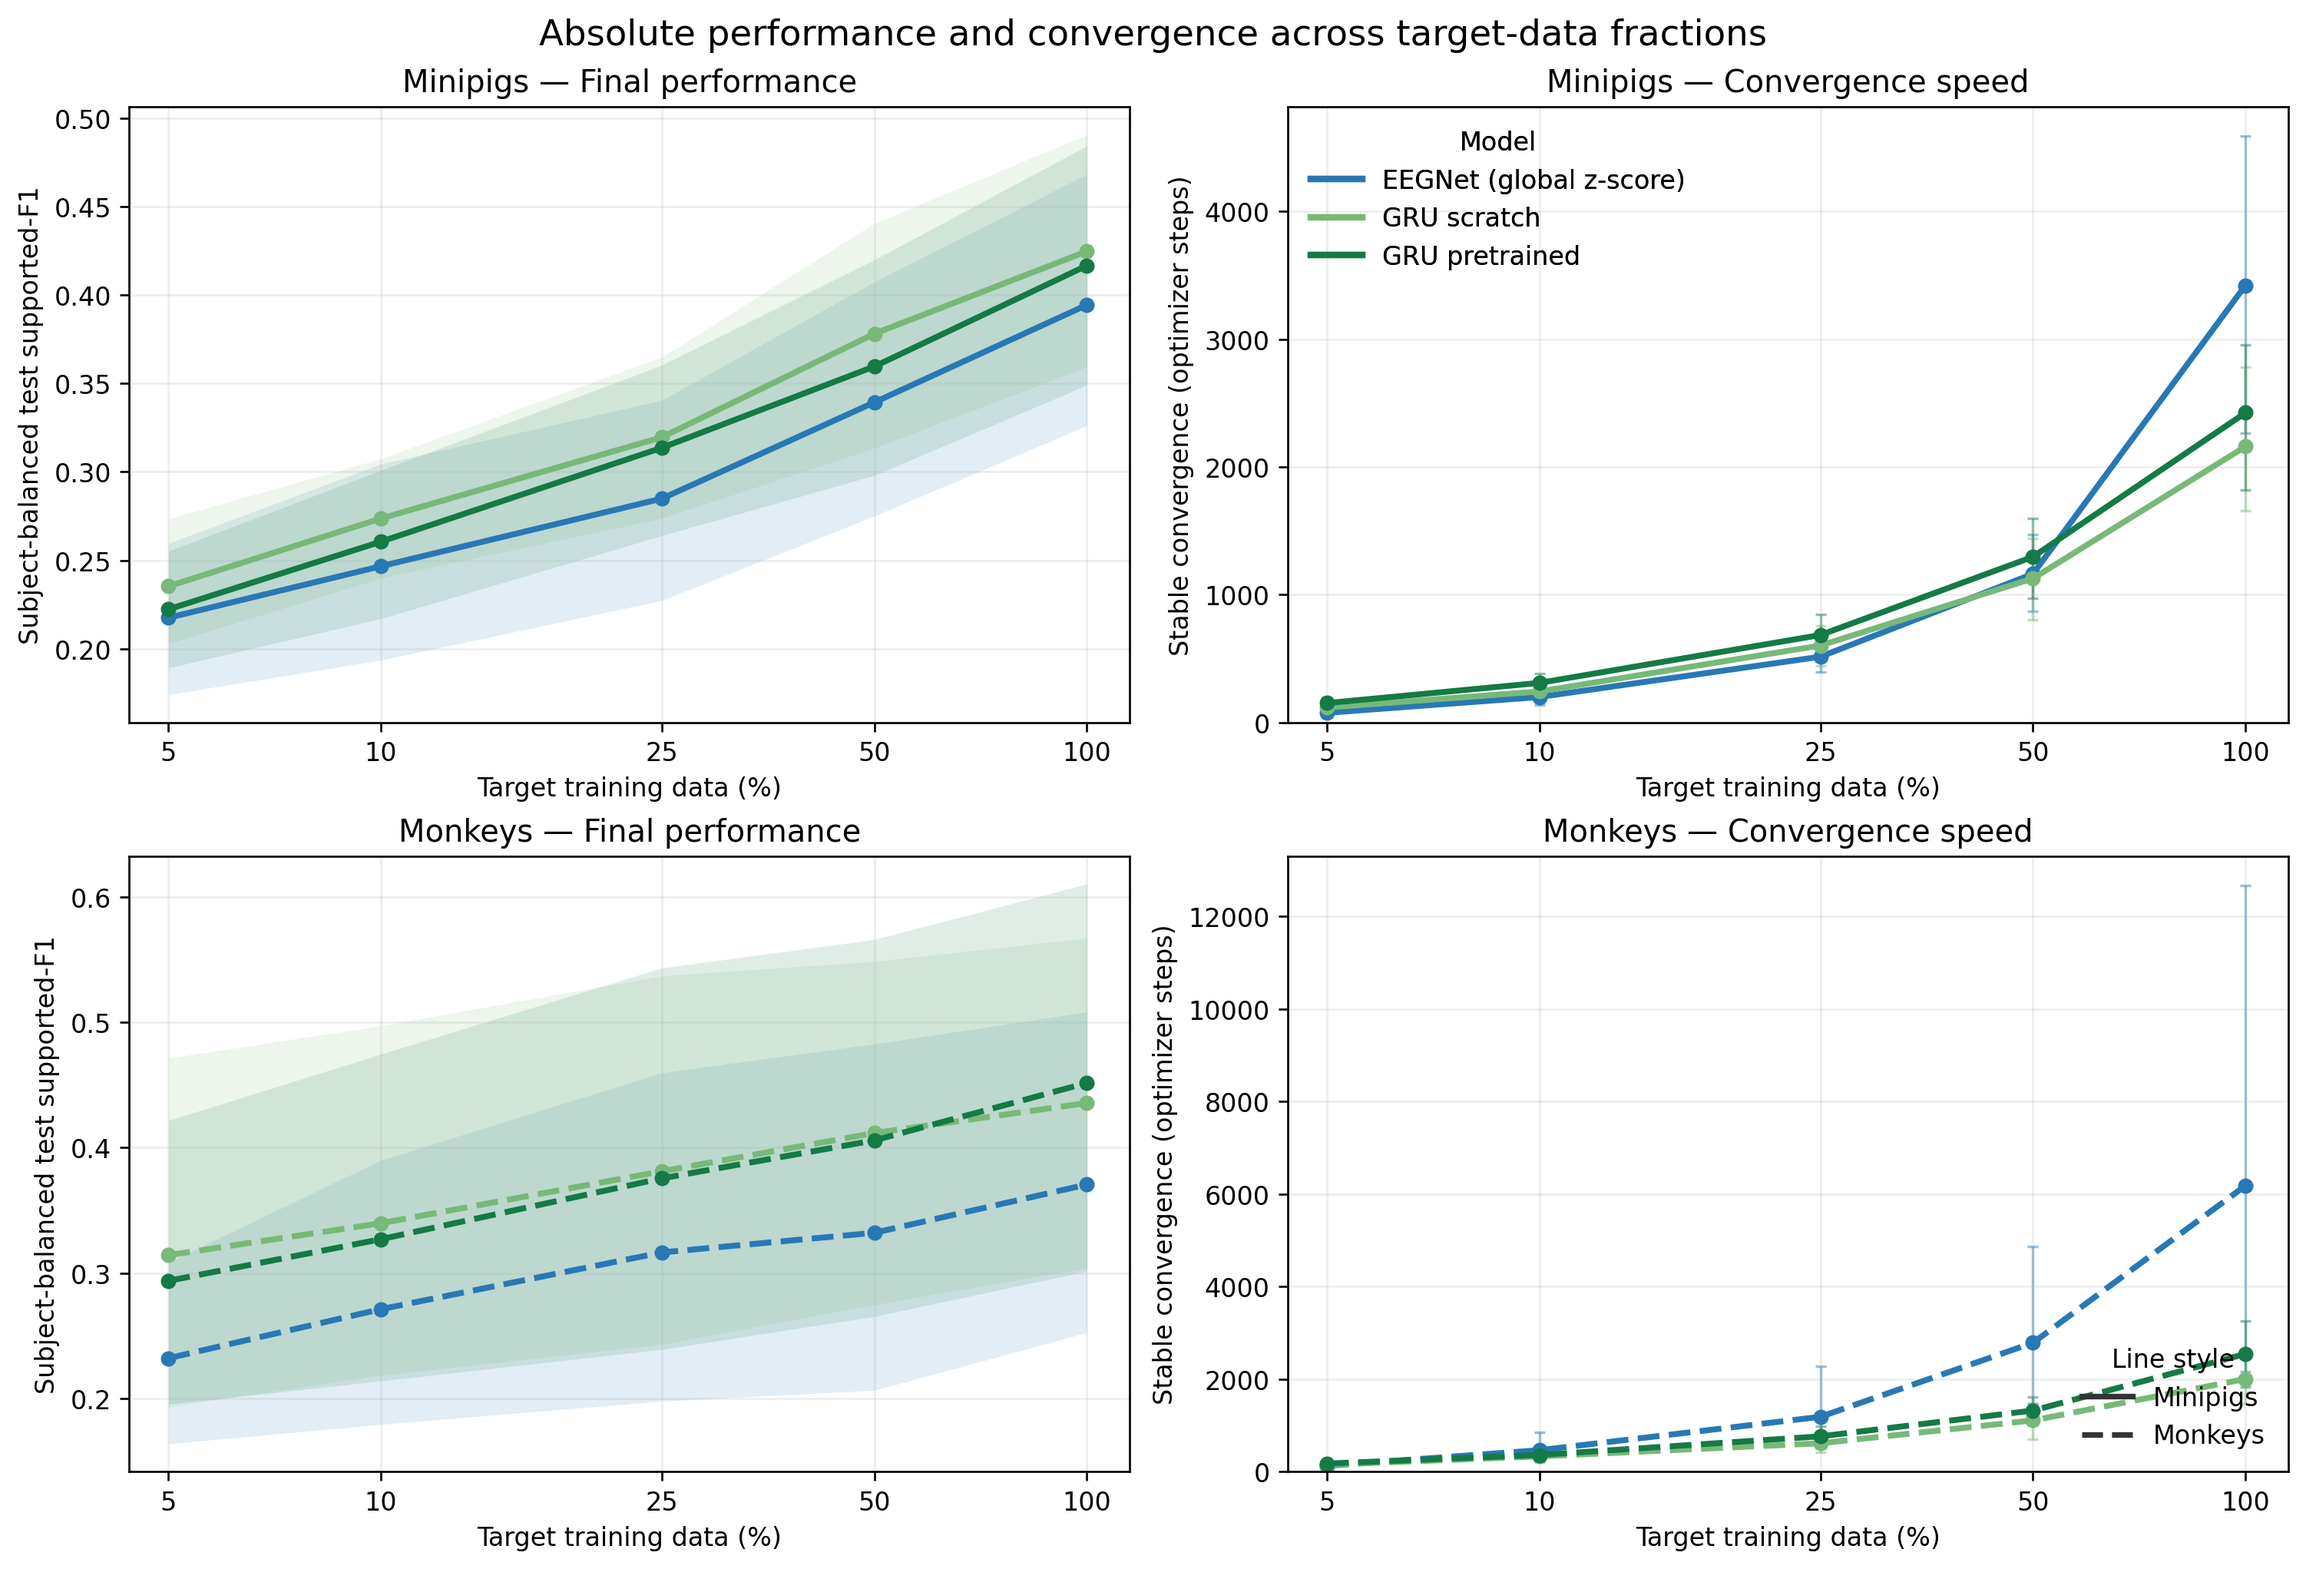
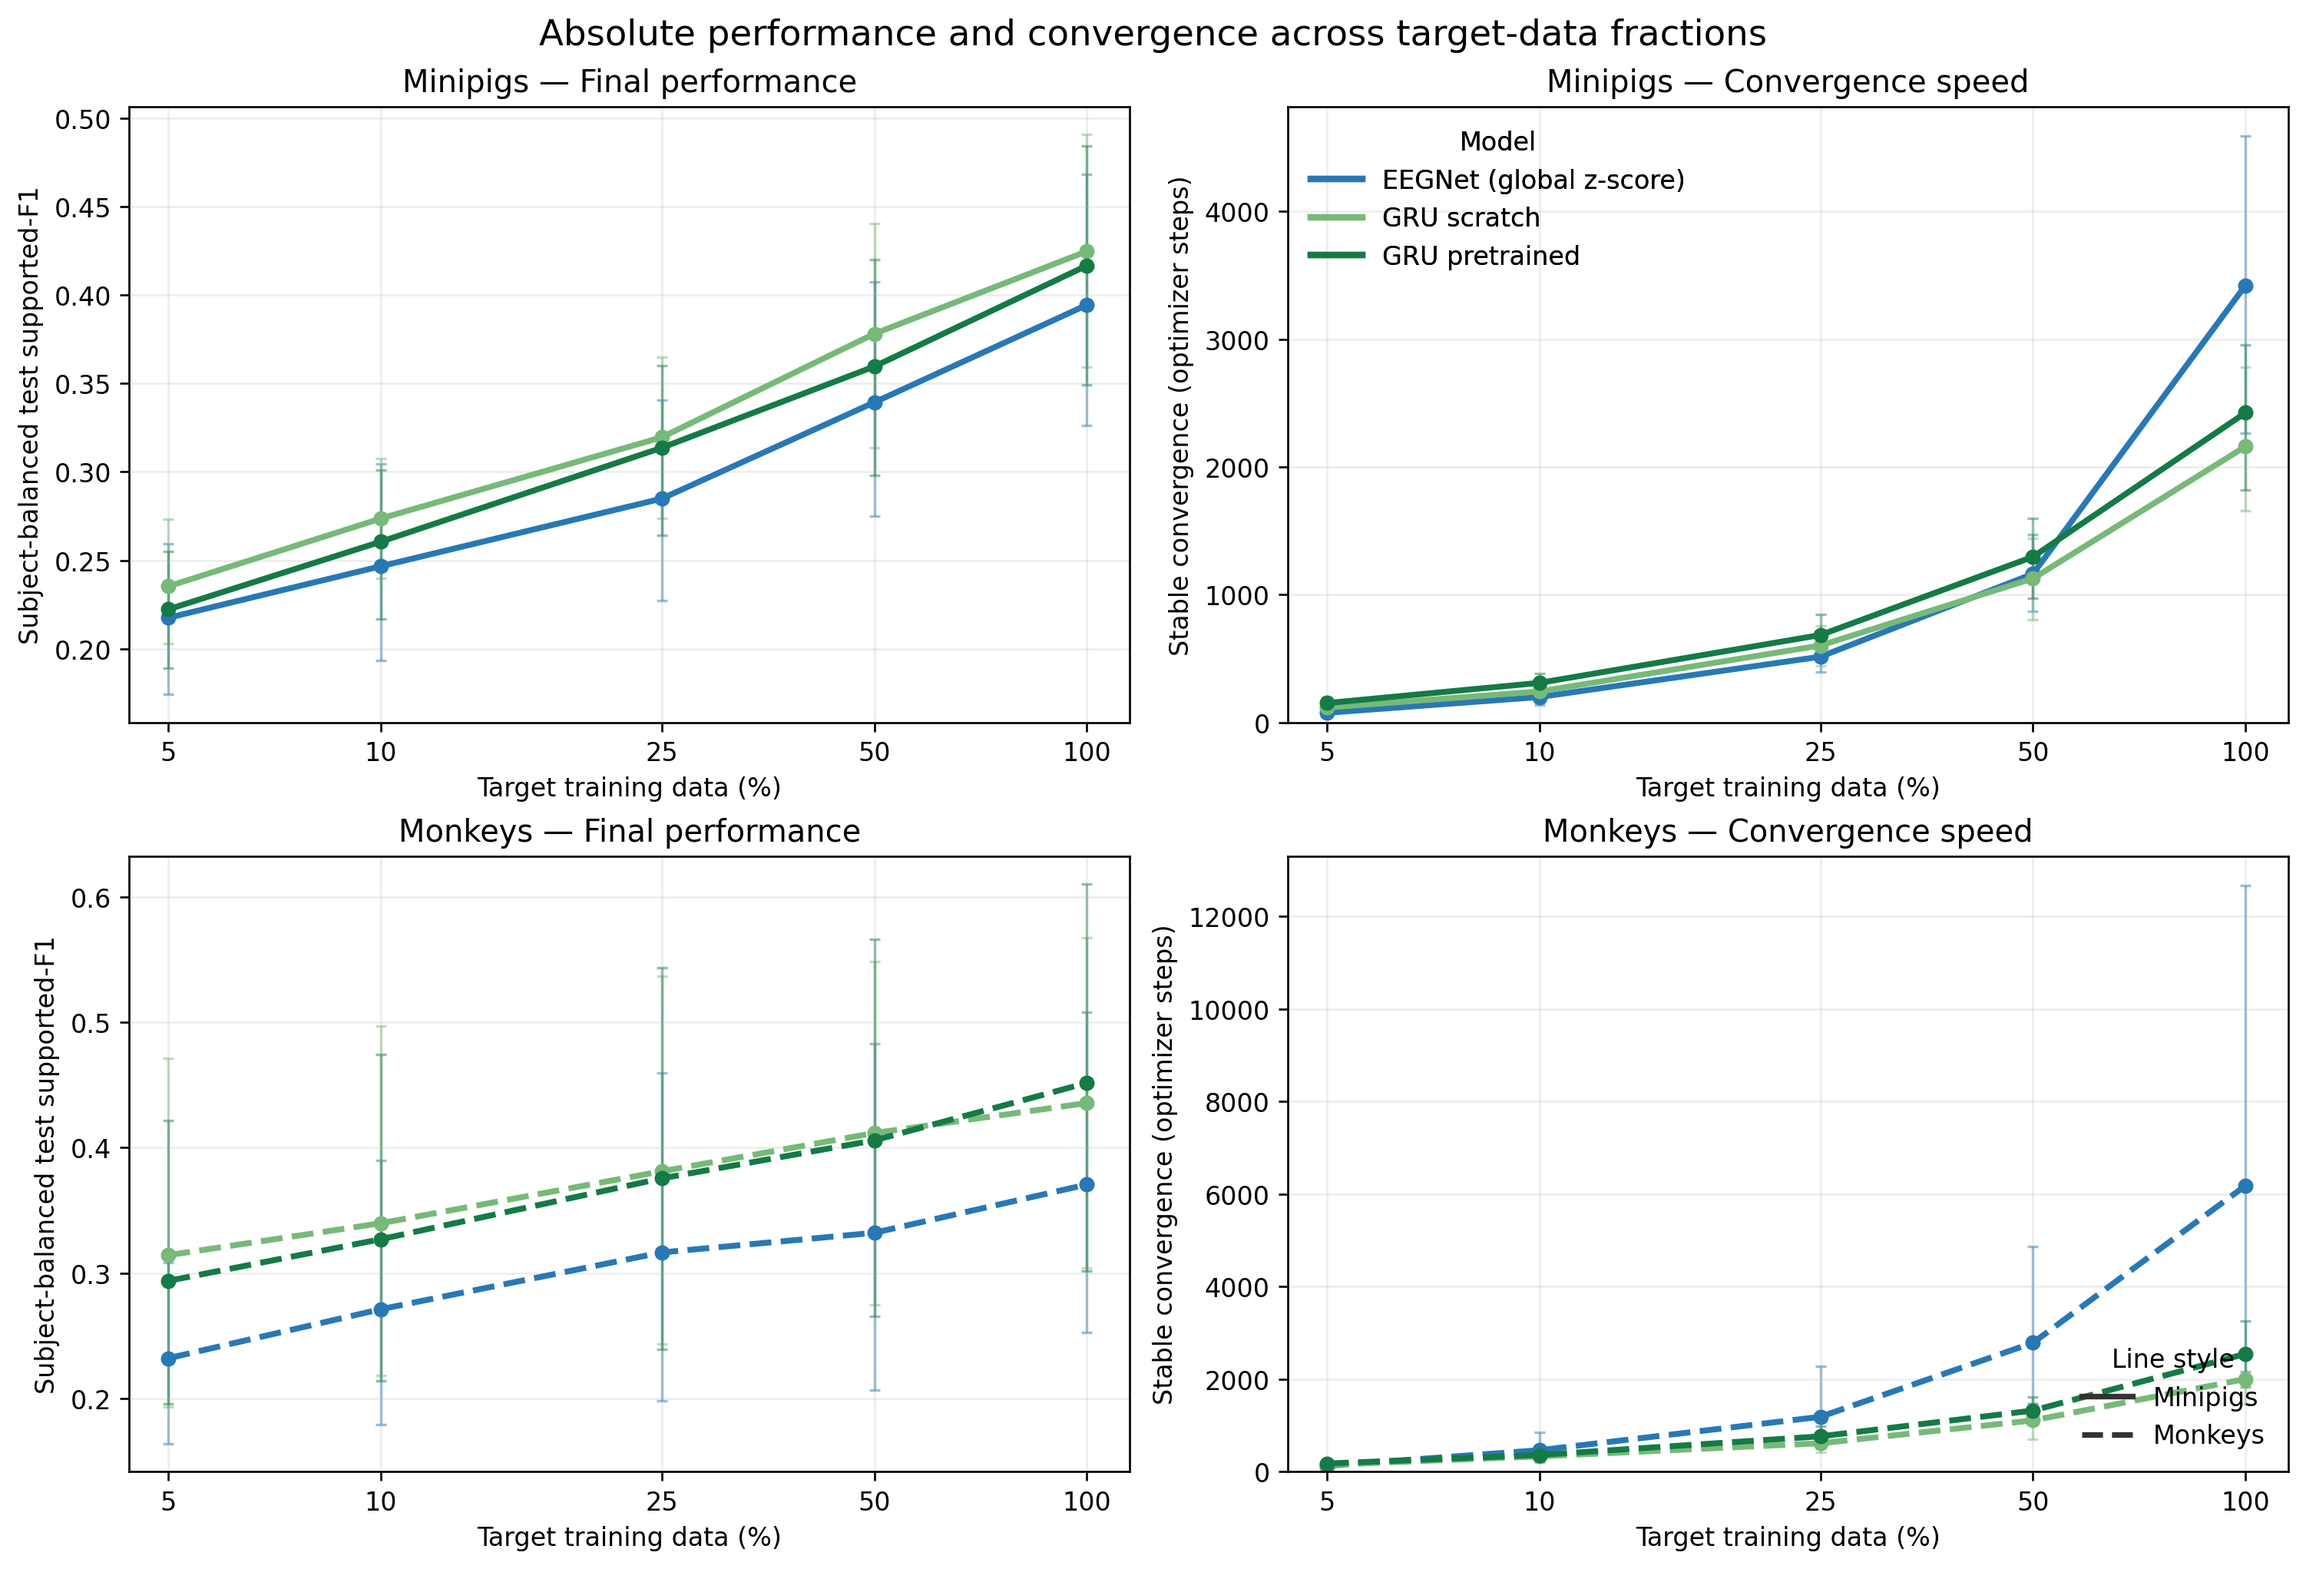
Use interval bars in Phase 4E absolute figure

Changed region(s): [[0.0619, 0.5551, 0.4955, 0.9251], [0.0619, 0.0925, 0.4955, 0.4626]]

diff --git a/analysis/20260914-MS-validation-loss-checkpoint-transfer-learning-curves_analysis.py b/analysis/20260914-MS-validation-loss-checkpoint-transfer-learning-curves_analysis.py
@@ -577,7 +577,7 @@ def plot_absolute(summary: pd.DataFrame, path: Path) -> None:
                     linestyle=LINESTYLES[species],
                     label=model,
                     metric=metric,
-                    ribbon=not starts_zero,
+                    ribbon=False,
                 )
             setup_x(axis)
             axis.set_ylabel(ylabel)

diff --git a/experiments/inbox/20260914-MS-validation-loss-checkpoint-transfer-learning-curves.md b/experiments/inbox/20260914-MS-validation-loss-checkpoint-transfer-learning-curves.md
@@ -318,9 +318,8 @@ are monkeys.
 
 Blue is global-z-score EEGNet, light green is scratch GRU, and dark green is
 validation-loss-selected pretrained GRU. The 2×2 layout separates minipigs
-from monkeys. Full uncertainty ribbons are used for test F1. EEGNet's
-convergence uncertainty is sufficiently broad that the absolute convergence
-panels use pointwise intervals instead.
+from monkeys. Both absolute metrics use pointwise 95% bootstrap intervals to
+keep the three model trajectories legible.
 
 ![Session-level paired transfer effects](../../analysis/figures/20260914-MS-validation-loss-checkpoint-transfer-learning-curves_session_paired_distributions.png)
 
